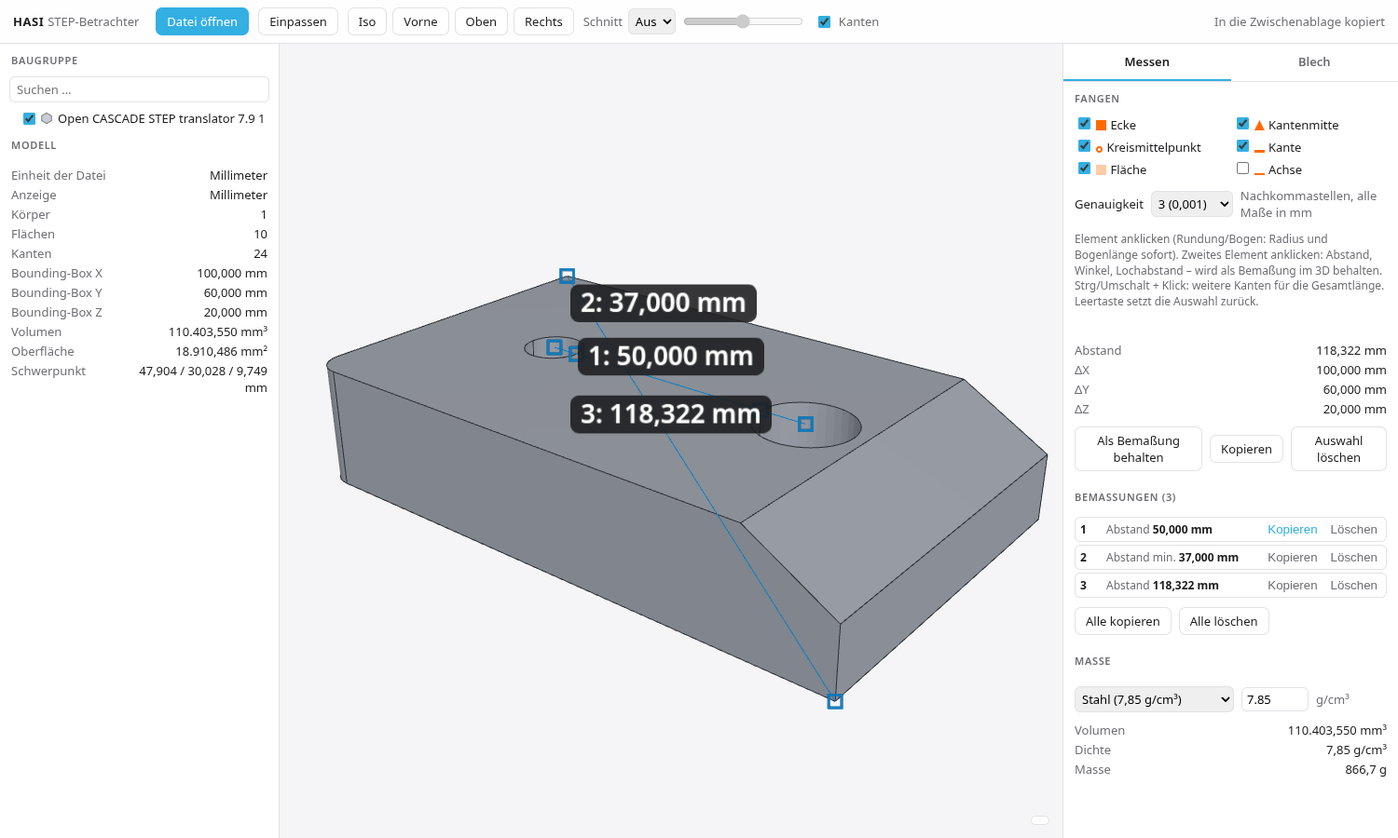
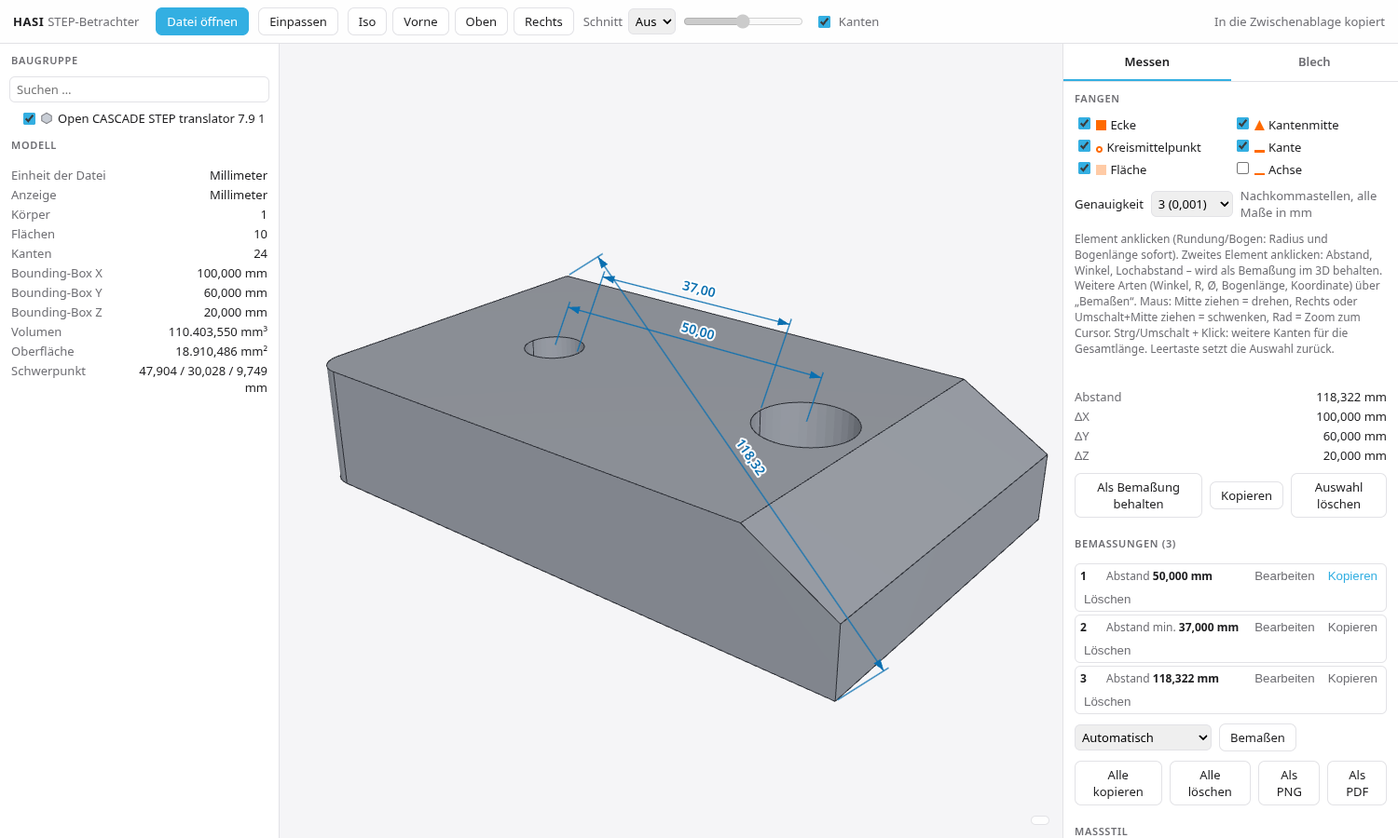
Maus wie eDrawings und Bemaßung wie AutoCAD: alle Maßarten, Toleranzen, Maßstil, Ziehen, PNG/PDF-Export

diff --git a/src/main.js b/src/main.js
@@ -1,5 +1,6 @@
 import * as THREE from 'three';
 import { OrbitControls } from 'three/examples/jsm/controls/OrbitControls.js';
+import * as BM from './bemassung.js';
 const $=id=>document.getElementById(id), view=$('view');
 let renderer;
 try{renderer=new THREE.WebGLRenderer({antialias:true,preserveDrawingBuffer:true})}catch(e){$('status').textContent='Fehler: 3D-Grafik (WebGL) wird auf diesem Rechner nicht unterstützt.';throw e}
@@ -7,11 +8,15 @@ renderer.setPixelRatio(devicePixelRatio);renderer.setClearColor(0xf5f5f7);view.a
 const scene=new THREE.Scene(),camera=new THREE.PerspectiveCamera(35,1,0.1,1e6);
 scene.add(new THREE.HemisphereLight(0xffffff,0xb0b4bc,1.5));const dl=new THREE.DirectionalLight(0xffffff,1.3);camera.add(dl);dl.position.set(1,2,3);scene.add(camera);
 const controls=new OrbitControls(camera,renderer.domElement);controls.enableDamping=true;controls.screenSpacePanning=true;
+// Maus wie eDrawings/SolidWorks: Mitte ziehen = drehen, Umschalt+Mitte oder Rechts ziehen = schwenken, Rad = Zoom auf den Cursor, Links = Auswahl/Messen
+controls.mouseButtons={LEFT:null,MIDDLE:THREE.MOUSE.ROTATE,RIGHT:THREE.MOUSE.PAN};controls.zoomToCursor=true;
+renderer.domElement.addEventListener('mousedown',e=>{if(e.button===1)e.preventDefault()});
+const overlay=document.createElement('canvas');overlay.id='dimoverlay';overlay.style.cssText='position:absolute;left:0;top:0;pointer-events:none';view.appendChild(overlay);
 const plane=new THREE.Plane(new THREE.Vector3(1,0,0),0);
 let model=null,box=new THREE.Box3(),needs=true,data=null,bodies=[],edgeObjs=[],baseMat=null,marks=new THREE.Group(),hoverObj=new THREE.Group();
-function resize(){const w=view.clientWidth,h=view.clientHeight;renderer.setSize(w,h);camera.aspect=w/h;camera.updateProjectionMatrix();needs=true}
+function resize(){const w=view.clientWidth,h=view.clientHeight;renderer.setSize(w,h);overlay.width=w*devicePixelRatio;overlay.height=h*devicePixelRatio;overlay.style.width=w+'px';overlay.style.height=h+'px';camera.aspect=w/h;camera.updateProjectionMatrix();needs=true}
 addEventListener('resize',resize);resize();controls.addEventListener('change',()=>needs=true);
-(function loop(){requestAnimationFrame(loop);controls.update();if(needs){renderer.render(scene,camera);needs=false}})();
+(function loop(){requestAnimationFrame(loop);controls.update();if(needs){renderer.render(scene,camera);drawDims();needs=false}})();
 
 // ---------- Worker ----------
 const worker=new Worker(new URL('./worker.js',import.meta.url),{type:'module'});const base=new URL('./',location.href).href;
@@ -64,7 +69,7 @@ async function load(buf,name){
     model.add(mesh);bodies.push(mesh)});
   model.add(marks);model.add(hoverObj);scene.add(model);model.updateMatrixWorld(true);box.setFromObject(model);
   vIdx=new Map();
-  buildTree();clearSel();hov=null;hoverObj.clear();$('snaptip').hidden=true;dims=[];dimNo=0;lastRes=null;renderDims();sheetSolid=null;fit();setCut();showModel();sheetCache=null;$('sheeterr').innerHTML='';$('sheetinfo').innerHTML='';$('bends').innerHTML='';$('flatprev').innerHTML='';$('dxf').disabled=true;$('sheetwarn').textContent='';
+  buildTree();clearSel();hov=null;hoverObj.clear();$('snaptip').hidden=true;dims=[];dimSel=null;$('dimedit').hidden=true;dimNo=0;lastRes=null;renderDims();sheetSolid=null;fit();setCut();showModel();sheetCache=null;$('sheeterr').innerHTML='';$('sheetinfo').innerHTML='';$('bends').innerHTML='';$('flatprev').innerHTML='';$('dxf').disabled=true;$('sheetwarn').textContent='';
   if(!$('tab-blech').hidden)calcSheet();
   const ms=Math.round(performance.now()-t0);const tris=data.inst.reduce((s,I)=>s+data.uniq[I.u].i.length/3,0);
   const info={name,bytes:size,bodies:data.inst.length,unique:data.uniq.length,faces:data.model.faces,edges:data.model.edges,triangles:tris,totalMs:ms,unit:U.sym,times:data.times,stats:data.stats};window.__lastLoad=info;
@@ -144,7 +149,7 @@ function viewMenu(x,y){const s=pickAt(x,y);const n=s&&s.body?nodeOfBody(s.body.u
       if(a==='dims'){dims=[];renderDims()}
       if(a==='shot')screenshot()})}
 let lastAxis='';$('axis').addEventListener('change',()=>{if($('axis').value)lastAxis=$('axis').value});
-async function screenshot(){renderer.render(scene,camera);const url=renderer.domElement.toDataURL('image/png');
+async function screenshot(){const url=ansichtBild().toDataURL('image/png');
   const bin=atob(url.split(',')[1]);const bytes=new Uint8Array(bin.length);for(let i=0;i<bin.length;i++)bytes[i]=bin.charCodeAt(i);
   const name=(window.__lastLoad?.name||'ansicht').replace(/\.(step|stp)$/i,'')+'-ansicht.png';await saveBytes(name,bytes,'PNG-Bild','png','image/png')}
 let rdown=null;
@@ -239,29 +244,86 @@ async function select(s,add=false){if(sels.length>=2&&!add)clearSel();const clea
 const dimGroup=new THREE.Group();dimGroup.renderOrder=20;let dims=[],dimNo=0;
 const rowText=r=>`${r[0]}: ${r[2]&&r[2]!=='t'?fmt(r[1],r[2]):r[1]}`;
 const mainRow=r=>r.rows.find(x=>x[3])||r.rows.find(x=>x[2]==='L'||x[2]==='A'||x[2]==='W')||r.rows[0];
-function textSprite(txt){const c=document.createElement('canvas'),x=c.getContext('2d');const f='600 30px system-ui,sans-serif';x.font=f;const w=Math.ceil(x.measureText(txt).width)+24;c.width=w;c.height=44;
-  x.font=f;x.fillStyle='rgba(29,29,31,.88)';x.beginPath();x.roundRect?x.roundRect(0,0,w,44,10):x.rect(0,0,w,44);x.fill();x.fillStyle='#fff';x.textBaseline='middle';x.fillText(txt,12,23);
-  const t=new THREE.CanvasTexture(c);t.colorSpace=THREE.SRGBColorSpace;const sp=new THREE.Sprite(new THREE.SpriteMaterial({map:t,depthTest:false,sizeAttenuation:false}));
-  const h=0.03;sp.center.set(0.5,-0.2);sp.scale.set(h*w/44,h,1);sp.renderOrder=21;return sp}
-function dimObject(d,k=0){const g=new THREE.Group();const col=0x0a7cc2;const r=mainRow(d.r);
-  let at=null;for(const [a,b] of d.r.gfx){const l=new THREE.Line(new THREE.BufferGeometry().setFromPoints([V3(a),V3(b)]),new THREE.LineBasicMaterial({color:col,depthTest:false}));l.renderOrder=20;g.add(l);
-    for(const p of [a,b])g.add(snapSym('vertex',p,col));at=V3(a).add(V3(b)).multiplyScalar(.5)}
-  if(!at){const s=d.sels[0];at=V3(s.p||[0,0,0])}
-  const sp=textSprite(`${d.no}: ${fmt(r[1],r[2])}`);sp.position.copy(at);sp.center.set(0.5,-0.2-1.35*k);g.add(sp);g.userData.dim=d.no;return g}
-// Labels mit gleichem oder nahem Ankerpunkt (< 4 % der Modellgröße) übereinander versetzen statt überlappen
-const dimAnchor=d=>{const g=d.r.gfx[0];return g?g[0].map((x,i)=>(x+g[1][i])/2):(d.sels[0].p||[0,0,0])};
-function renderDims(){dimGroup.clear();const tol=box.getSize(new THREE.Vector3()).length()*0.04,placed=[];
-  dims.forEach(d=>{const a=dimAnchor(d);const k=placed.filter(q=>Math.hypot(q[0]-a[0],q[1]-a[1],q[2]-a[2])<tol).length;placed.push(a);dimGroup.add(dimObject(d,k))});if(model&&dimGroup.parent!==model)model.add(dimGroup);
-  $('dimcount').textContent=dims.length?`(${dims.length})`:'';
-  $('dimlist').innerHTML=dims.map(d=>{const r=mainRow(d.r);return `<div class="dim" data-no="${d.no}"><b>${d.no}</b><span title="${d.title}"><span class="t">${r[0]}</span> <b>${fmt(r[1],r[2])}</b></span><button data-a="copy" title="Kopieren">Kopieren</button><button data-a="del" title="Löschen">Löschen</button></div>`}).join('')||'<p class="hint">Noch keine Bemaßungen.</p>';
-  window.__dims=dims.map(d=>({no:d.no,title:d.title,text:dimText(d)}));needs=true}
+// Maßstil (Textgröße, Pfeilart, Nachkommastellen) – bleibt gespeichert
+let STIL={...BM.STIL_STANDARD,...JSON.parse(localStorage.getItem('massstil')||'{}')};
+const projL=p=>{const w=model.localToWorld(V3(p)).project(camera);return [(w.x+1)/2*view.clientWidth,(1-w.y)/2*view.clientHeight,w.z]};
+let dimHits=[],dimSel=null,dimDrag=null;
+function drawDims(){const c=overlay.getContext('2d');c.setTransform(devicePixelRatio,0,0,devicePixelRatio,0,0);c.clearRect(0,0,overlay.width,overlay.height);dimHits=[];
+  if(!model||!dims.length)return;dims.forEach(d=>{if(!d.typ)return;const h=BM.zeichne(c,d,projL,STIL,d.no===dimSel?'#e05a00':'#0a6fb0');if(h)dimHits.push({...h,no:d.no})})}
+// Bemaßung aus der Auswahl bauen (Werte aus der B-Rep, Modellkoordinaten in mm)
+const IM=s=>data.inst[s.inst??0].m;const TP=(m,q)=>[m[0]*q[0]+m[1]*q[1]+m[2]*q[2]+m[3],m[4]*q[0]+m[5]*q[1]+m[6]*q[2]+m[7],m[8]*q[0]+m[9]*q[1]+m[10]*q[2]+m[11]];
+const TD=(m,q)=>BM.V.norm([m[0]*q[0]+m[1]*q[1]+m[2]*q[2],m[4]*q[0]+m[5]*q[1]+m[6]*q[2],m[8]*q[0]+m[9]*q[1]+m[10]*q[2]]);
+const camDir=v=>{const o=model.worldToLocal(new THREE.Vector3(0,0,0));const w=model.worldToLocal(v.clone().applyQuaternion(camera.quaternion));return BM.V.norm(w.sub(o).toArray())};
+const rowVal=(r,...names)=>{for(const n of names){const x=r.rows.find(q=>q[0]===n);if(x)return x[1]}return null};
+const circleOf=s=>{const U=UQ(s),m=IM(s);if(s.k==='edge'||s.k==='center'){const e=U.edges[s.id];if(e.r==null)return null;const voll=V3(e.pts[0]).distanceTo(V3(e.pts.at(-1)))<1e-6*Math.max(1,e.r);
+    return {c:TP(m,e.c),n:TD(m,e.n),r:e.r,voll,p0:TP(m,e.pts[0]),p1:TP(m,e.pts.at(-1))}}
+  if(s.k==='face'){const f=U.faces[s.id];if(!f.ax)return null;return {c:TP(m,f.ax.c),n:TD(m,f.ax.d),r:f.ax.r,voll:true}}return null};
+const lineOf=s=>{if(s.k!=='edge')return null;const e=UQ(s).edges[s.id];if(e.type!=='Gerade')return null;const m=IM(s);return [TP(m,e.pts[0]),TP(m,e.pts.at(-1))]};
+const pointOf=s=>{const U=UQ(s),m=IM(s);if(s.k==='vertex')return TP(m,U.verts[s.id]);if(s.k==='mid')return TP(m,U.edges[s.id].mid);if(s.k==='center'){const e=U.edges[s.id];return e.c?TP(m,e.c):null}if(s.k==='point')return s.p;return null};
+function baueDim(res,typ){const sl=res.sels,r=res.r,size=box.getSize(new THREE.Vector3()).length();const d={typ:null,einheit:'L',tol:{art:'keine',o:0,u:0},praefix:'',suffix:'',text:''};
+  if(typ==='auto'){if(sl.length===1){const ci=circleOf(sl[0]);typ=ci?(ci.voll?'durchmesser':'radius'):(pointOf(sl[0])?'koordinate':null)}else typ=r.gfx.length?'ausgerichtet':null}
+  if(!typ)return null;d.typ=typ;
+  if(['ausgerichtet','horizontal','vertikal'].includes(typ)){if(!r.gfx.length)return null;const [a,b]=r.gfx[0];d.p1=a;d.p2=b;
+    d.dir=typ==='horizontal'?camDir(new THREE.Vector3(1,0,0)):typ==='vertikal'?camDir(new THREE.Vector3(0,1,0)):BM.V.norm(BM.V.sub(b,a));
+    d.wert=Math.abs(BM.V.dot(BM.V.sub(b,a),BM.V.norm(d.dir)));
+    const up=camDir(new THREE.Vector3(0,1,0));let side=BM.V.norm(BM.V.cross(d.dir,camDir(new THREE.Vector3(0,0,1))));if(BM.V.dot(side,up)<0)side=BM.V.mul(side,-1);d.off=BM.V.mul(side,size*0.06);return d}
+  if(typ==='winkel'){const L1=lineOf(sl[0]),L2=sl[1]&&lineOf(sl[1]);if(!L1||!L2)return null;
+    const d1=BM.V.norm(BM.V.sub(L1[1],L1[0])),d2=BM.V.norm(BM.V.sub(L2[1],L2[0])),w=BM.V.sub(L1[0],L2[0]);const a=BM.V.dot(d1,d2),dd=BM.V.dot(d1,w),e=BM.V.dot(d2,w),den=1-a*a;if(den<1e-9)return null;
+    const t=(a*e-dd)/den,u=(e-a*dd)/den;const v=BM.V.mul(BM.V.add(BM.V.add(L1[0],BM.V.mul(d1,t)),BM.V.add(L2[0],BM.V.mul(d2,u))),0.5);
+    const far=L=>BM.V.len(BM.V.sub(L[0],v))>BM.V.len(BM.V.sub(L[1],v))?L[0]:L[1];d.v=v;d.u1=BM.V.norm(BM.V.sub(far(L1),v));d.u2=BM.V.norm(BM.V.sub(far(L2),v));
+    d.einheit='W';d.wert=Math.acos(Math.max(-1,Math.min(1,BM.V.dot(d.u1,d.u2))))*180/Math.PI;d.off=BM.V.mul(d.u1,Math.min(BM.V.len(BM.V.sub(far(L1),v)),BM.V.len(BM.V.sub(far(L2),v)))*0.6);return d}
+  const ci=circleOf(sl[0]);
+  if(typ==='radius'||typ==='durchmesser'){if(!ci)return null;Object.assign(d,{c:ci.c,n:ci.n,rad:ci.r,ang:0.7});d.wert=typ==='radius'?ci.r:2*ci.r;return d}
+  if(typ==='bogen'){if(!ci||!ci.p0)return null;const [a0,a1]=BM.bogenWinkel(ci.c,ci.n,ci.p0,ci.p1,ci.voll);Object.assign(d,{c:ci.c,n:ci.n,rad:ci.r,a0,a1,offR:ci.r*0.25});d.wert=rowVal(r,'Bogenlänge')??ci.r*(a1-a0);return d}
+  if(typ==='koordinate'){const p=pointOf(sl[0]);if(!p)return null;d.p=p;d.off=[size*0.05,size*0.05,0];d.wert=0;return d}
+  return null}
 const dimText=d=>`Bemaßung ${d.no} (${d.title})\n`+d.r.rows.map(rowText).join('\n');
+function renderDims(){if(dimSel&&!dims.some(d=>d.no===dimSel)){dimSel=null;$('dimedit').hidden=true}
+  $('dimcount').textContent=dims.length?`(${dims.length})`:'';
+  $('dimlist').innerHTML=dims.map(d=>{const r=mainRow(d.r);return `<div class="dim" data-no="${d.no}"><b>${d.no}</b><span title="${d.title}"><span class="t">${r[0]}</span> <b>${fmt(r[1],r[2])}</b></span><button data-a="edit" title="Bearbeiten">Bearbeiten</button><button data-a="copy" title="Kopieren">Kopieren</button><button data-a="del" title="Löschen">Löschen</button></div>`}).join('')||'<p class="hint">Noch keine Bemaßungen.</p>';
+  window.__dims=dims.map(d=>({no:d.no,title:d.title,text:dimText(d)}));needs=true}
 async function copyText(t){window.__lastCopy=t;try{await navigator.clipboard.writeText(t)}catch{const a=document.createElement('textarea');a.value=t;document.body.appendChild(a);a.select();try{document.execCommand('copy')}catch{}a.remove()}$('status').textContent='In die Zwischenablage kopiert'}
-function keepDim(){if(!lastRes)return;dims.push({no:++dimNo,...lastRes});renderDims()}
+function keepDim(typ){if(!lastRes)return false;typ=typ||$('dimtyp').value;const g=baueDim(lastRes,typ);if(typ!=='auto'&&!g){$('status').textContent='Diese Bemaßungsart passt nicht zur Auswahl.';return false}
+  // Gleicher Bezugspunkt wie eine vorhandene Bemaßung: weiter nach außen versetzen, damit sich nichts überlappt
+  if(g&&g.off){const tol=box.getSize(new THREE.Vector3()).length()*0.04,ref=dimRef(g);const k=dims.filter(d=>d.typ&&BM.V.len(BM.V.sub(dimRef(d),ref))<tol).length;if(k)g.off=BM.V.mul(g.off,1+k*0.9)}
+  dims.push({no:++dimNo,...lastRes,...(g||{})});renderDims();return true}
 $('keepDim').onclick=()=>keepDim();
 $('copySel').onclick=()=>{if(lastRes)copyText(lastRes.title+'\n'+lastRes.r.rows.map(rowText).join('\n'))};
 $('dimlist').onclick=e=>{const b=e.target.closest('button');if(!b)return;const no=+b.closest('.dim').dataset.no;const d=dims.find(x=>x.no===no);
-  if(b.dataset.a==='del'){dims=dims.filter(x=>x!==d);renderDims()}else copyText(dimText(d))};
+  if(b.dataset.a==='del'){dims=dims.filter(x=>x!==d);renderDims()}else if(b.dataset.a==='edit')editDim(d);else copyText(dimText(d))};
+// ---- Bemaßung bearbeiten (Art, Präfix/Suffix, Text, Toleranz) ----
+function editDim(d){if(!d)return;dimSel=d.no;$('dimedit').hidden=false;$('deNo').textContent=d.no;
+  const lin=['ausgerichtet','horizontal','vertikal'];const ts=lin.includes(d.typ)?lin:[d.typ||'auto'];$('deTyp').innerHTML=ts.map(t=>`<option value="${t}">${BM.TYPEN.find(x=>x[0]===t)?.[1]||'Nur Text'}</option>`).join('');$('deTyp').value=d.typ||'auto';$('deTyp').disabled=!lin.includes(d.typ);
+  $('dePre').value=d.praefix||'';$('deSuf').value=d.suffix||'';$('deText').value=d.text||'';$('deTol').value=d.tol?.art||'keine';$('deO').value=d.tol?.o??0;$('deU').value=d.tol?.u??0;needs=true}
+const curDim=()=>dims.find(x=>x.no===dimSel);
+['dePre','deSuf','deText','deTol','deO','deU','deTyp'].forEach(id=>$(id).addEventListener('input',()=>{const d=curDim();if(!d)return;
+  d.praefix=$('dePre').value;d.suffix=$('deSuf').value;d.text=$('deText').value;d.tol={art:$('deTol').value,o:parseFloat(String($('deO').value).replace(',','.'))||0,u:parseFloat(String($('deU').value).replace(',','.'))||0};
+  if(id==='deTyp'&&d.typ!==$('deTyp').value){const keep={tol:d.tol,praefix:d.praefix,suffix:d.suffix,text:d.text};const g=baueDim(d,$('deTyp').value);if(g)Object.assign(d,g,keep)}needs=true}));
+$('deClose').onclick=()=>{dimSel=null;$('dimedit').hidden=true;needs=true};
+// ---- Maßstil ----
+$('stPfeil').innerHTML=BM.PFEILARTEN.map(([k,t])=>`<option value="${k}">${t}</option>`).join('');$('stGroesse').value=STIL.groesse;$('stPfeil').value=STIL.pfeil;$('stStellen').value=STIL.stellen;
+['stGroesse','stPfeil','stStellen'].forEach(id=>$(id).addEventListener('input',()=>{STIL={groesse:Math.max(8,Math.min(40,+$('stGroesse').value||14)),pfeil:$('stPfeil').value,stellen:Math.max(0,Math.min(4,parseInt($('stStellen').value)||0))};localStorage.setItem('massstil',JSON.stringify(STIL));needs=true}));
+$('dimtyp').innerHTML=BM.TYPEN.map(([k,t])=>`<option value="${k}">${t}</option>`).join('');
+$('dimSet').onclick=()=>keepDim($('dimtyp').value);
+// ---- Bemaßung ziehen: Maßtext mit links greifen und ziehen ----
+const modelPointAt=(cx,cy,ref)=>{const r=renderer.domElement.getBoundingClientRect();const wr=model.localToWorld(V3(ref)).project(camera);
+  const v=new THREE.Vector3(((cx-r.left)/r.width)*2-1,-((cy-r.top)/r.height)*2+1,wr.z).unproject(camera);return model.worldToLocal(v).toArray()};
+function dimRef(d){return d.p1?BM.V.mul(BM.V.add(d.p1,d.p2),0.5):(d.v||d.c||d.p)}
+renderer.domElement.addEventListener('pointerdown',e=>{if(e.button!==0||!dims.length)return;const r=renderer.domElement.getBoundingClientRect();const x=e.clientX-r.left,y=e.clientY-r.top;
+  const h=dimHits.find(h=>Math.abs(h.x-x)<(h.w?h.w/2+6:h.r)&&Math.abs(h.y-y)<(h.h?h.h:h.r));if(!h)return;const d=dims.find(q=>q.no===h.no);dimDrag={d,moved:false};dimSel=d.no;try{renderer.domElement.setPointerCapture(e.pointerId)}catch{}e.stopImmediatePropagation();needs=true},true);
+renderer.domElement.addEventListener('pointermove',e=>{if(!dimDrag)return;e.stopImmediatePropagation();dimDrag.moved=true;BM.ziehe(dimDrag.d,modelPointAt(e.clientX,e.clientY,dimRef(dimDrag.d)));needs=true},true);
+renderer.domElement.addEventListener('pointerup',e=>{if(!dimDrag)return;e.stopImmediatePropagation();const d=dimDrag.d,mv=dimDrag.moved;dimDrag=null;down=null;if(!mv)editDim(d);needs=true},true);
+// ---- Ansicht mit Bemaßungen exportieren (PNG/PDF) ----
+function ansichtBild(){renderer.render(scene,camera);drawDims();const c=document.createElement('canvas');c.width=renderer.domElement.width;c.height=renderer.domElement.height;const x=c.getContext('2d');
+  x.drawImage(renderer.domElement,0,0);x.drawImage(overlay,0,0,c.width,c.height);return c}
+const toBytes=url=>{const b=atob(url.split(',')[1]);const u=new Uint8Array(b.length);for(let i=0;i<b.length;i++)u[i]=b.charCodeAt(i);return u};
+async function exportPng(){await saveBytes(baseName()+'_Bemaßung.png',toBytes(ansichtBild().toDataURL('image/png')),'PNG-Bild','png','image/png')}
+async function exportPdf(){const c=ansichtBild();const {jsPDF}=await import('jspdf');const pdf=new jsPDF({orientation:'landscape',unit:'mm',format:'a4'});
+  pdf.setFontSize(12);pdf.text(`${window.__lastLoad?.name||'Teil'} – Bemaßung (Maße in mm)`,12,12);let w=273,h=w*c.height/c.width;if(h>180){h=180;w=h*c.width/c.height}
+  pdf.addImage(c.toDataURL('image/png'),'PNG',12+(273-w)/2,18,w,h);pdf.setFontSize(8);pdf.text(new Date().toLocaleDateString('de-DE'),12,203);
+  await saveBytes(baseName()+'_Bemaßung.pdf',new Uint8Array(pdf.output('arraybuffer')),'PDF-Dokument','pdf','application/pdf')}
+$('dimPng').onclick=exportPng;$('dimPdf').onclick=exportPdf;
+
 $('dimClear').onclick=()=>{dims=[];renderDims()};
 $('dimCopyAll').onclick=()=>copyText(dims.map(dimText).join('\n\n'));
 $('prec').value=String(PREC);$('prec').onchange=()=>{PREC=+$('prec').value;localStorage.setItem('genauigkeit',PREC);renderDims();if(lastRes)kv($('mresult'),lastRes.r.rows);if(data){showModel?.();showMass?.()}if(sheetCache)calcSheet()};
@@ -313,6 +375,6 @@ $('expXlsx').onclick=async()=>{if(!sheetCache?.flat||sheetCache.flat.incomplete)
 
 // ---------- Test-Schnittstelle ----------
 window.__viewMenu=(x,y)=>viewMenu(x,y);window.__loadUrl=async u=>load(await (await fetch(u)).arrayBuffer(),u.split('/').pop());
-window.__app={hoverCount:()=>hoverObj.children.length,dimLabels:()=>dimGroup.children.map(g=>{const sp=g.children.find(o=>o.isSprite);return [sp.position.toArray(),sp.center.y]}),dims:()=>dims,keepDim,renderDims,copyText,vis:()=>bodies.map(b=>b.visible),selName:()=>selNode?.name,trans:()=>bodies.map(b=>b.material.opacity),act,selectNode,nodes:()=>nodes,ctxMenu,select,clearSel,calcSheet,pickAt,data:()=>data,tab:n=>document.querySelector(`.tab[data-tab="${n}"]`).click(),
+window.__app={hoverCount:()=>hoverObj.children.length,camPos:()=>camera.position.toArray(),fitIso:()=>fit(views.iso),dimLabels:()=>dimHits.map(h=>[[h.x,h.y,0],h.no]),exportPng,exportPdf,editDim:no=>editDim(dims.find(d=>d.no===no)),stil:()=>STIL,dims:()=>dims,keepDim,renderDims,copyText,vis:()=>bodies.map(b=>b.visible),selName:()=>selNode?.name,trans:()=>bodies.map(b=>b.material.opacity),act,selectNode,nodes:()=>nodes,ctxMenu,select,clearSel,calcSheet,pickAt,data:()=>data,tab:n=>document.querySelector(`.tab[data-tab="${n}"]`).click(),
   screenOf:p=>{const r=renderer.domElement.getBoundingClientRect();const w=model.localToWorld(V3(p)).project(camera);return [(w.x+1)/2*r.width+r.left,(1-w.y)/2*r.height+r.top]}};
 window.__toggleMeasure=()=>{};

diff --git a/src/bemassung.js b/src/bemassung.js
@@ -1,0 +1,80 @@
+// Bemaßung wie in AutoCAD, als 2D-Overlay über der 3D-Ansicht (bleibt beim Drehen lesbar, Text immer zur Kamera ausgerichtet).
+// Alle Punkte in Modellkoordinaten (mm, aus der B-Rep). P(p) projiziert einen Modellpunkt auf den Bildschirm [x,y] (CSS-Pixel).
+const V={add:(a,b)=>[a[0]+b[0],a[1]+b[1],a[2]+b[2]],sub:(a,b)=>[a[0]-b[0],a[1]-b[1],a[2]-b[2]],mul:(a,s)=>[a[0]*s,a[1]*s,a[2]*s],
+  dot:(a,b)=>a[0]*b[0]+a[1]*b[1]+a[2]*b[2],cross:(a,b)=>[a[1]*b[2]-a[2]*b[1],a[2]*b[0]-a[0]*b[2],a[0]*b[1]-a[1]*b[0]],len:a=>Math.hypot(a[0],a[1],a[2]),
+  norm:a=>{const l=Math.hypot(a[0],a[1],a[2])||1;return [a[0]/l,a[1]/l,a[2]/l]}};
+export {V};
+export const STIL_STANDARD={groesse:14,pfeil:'pfeil',stellen:2};
+export const PFEILARTEN=[['pfeil','Pfeil (gefüllt)'],['offen','Pfeil (offen)'],['schraeg','Schrägstrich'],['punkt','Punkt']];
+export const TYPEN=[['auto','Automatisch'],['ausgerichtet','Linear ausgerichtet'],['horizontal','Linear horizontal'],['vertikal','Linear vertikal'],['winkel','Winkel'],['radius','Radius R'],['durchmesser','Durchmesser Ø'],['bogen','Bogenlänge'],['koordinate','Koordinate']];
+export const TOLERANZEN=[['keine','Keine'],['symm','± symmetrisch'],['abmass','Abmaße (+/−)'],['grenz','Grenzmaß']];
+const zahl=(v,n)=>v.toLocaleString('de-DE',{minimumFractionDigits:n,maximumFractionDigits:n});
+const basis=n=>{const a=Math.abs(n[0])<0.9?[1,0,0]:[0,1,0];const e1=V.norm(V.cross(n,a));return [e1,V.cross(n,e1)]};
+
+/** Maßtext: [Haupttext, Zusatz oben, Zusatz unten] (Zusätze klein gestapelt, z. B. Abmaße). */
+export function massText(d,stil){const n=stil.stellen,w=d.wert;const t=d.tol||{art:'keine'};const o=+t.o||0,u=+t.u||0;
+  const wert=d.einheit==='W'?zahl(w,n)+'°':zahl(w,n);
+  const vor={radius:'R ',durchmesser:'Ø ',bogen:'⌒ '}[d.typ]||'';
+  let haupt=d.text&&d.text.trim()?d.text:vor+wert,oben='',unten='';
+  if(t.art==='symm')haupt+=' ±'+zahl(o,n);
+  else if(t.art==='abmass'){oben=(o>=0?'+':'−')+zahl(Math.abs(o),n);unten=(u>0?'+':'−')+zahl(Math.abs(u),n)}
+  else if(t.art==='grenz'){haupt=d.text&&d.text.trim()?d.text:vor;oben=zahl(w+o,n);unten=zahl(w-Math.abs(u),n)}
+  return [(d.praefix||'')+haupt,oben,unten,d.suffix||'']}
+
+function pfeil(ctx,p,dir,art,s){const [x,y]=p,[dx,dy]=dir;const nx=-dy,ny=dx;const L=s*0.9,W=s*0.3;
+  ctx.beginPath();
+  if(art==='schraeg'){ctx.moveTo(x-(dx+nx)*L*0.45,y-(dy+ny)*L*0.45);ctx.lineTo(x+(dx+nx)*L*0.45,y+(dy+ny)*L*0.45);ctx.lineWidth=2;ctx.stroke();ctx.lineWidth=1.2;return}
+  if(art==='punkt'){ctx.arc(x,y,s*0.22,0,7);ctx.fill();return}
+  ctx.moveTo(x,y);ctx.lineTo(x-dx*L+nx*W,y-dy*L+ny*W);if(art==='offen'){ctx.moveTo(x,y)}ctx.lineTo(x-dx*L-nx*W,y-dy*L-ny*W);
+  if(art==='offen')ctx.stroke();else{ctx.closePath();ctx.fill()}}
+const unit2=(a,b)=>{const dx=b[0]-a[0],dy=b[1]-a[1],l=Math.hypot(dx,dy)||1;return [dx/l,dy/l]};
+const linie=(ctx,pts)=>{ctx.beginPath();pts.forEach((p,i)=>i?ctx.lineTo(p[0],p[1]):ctx.moveTo(p[0],p[1]));ctx.stroke()};
+// Text an Position p, Winkel ang (lesbar: nie kopfüber), oberhalb der Linie (oben=true) oder zentriert. Liefert Bildschirm-Rechteck.
+function text(ctx,p,ang,teile,stil,ueber=true){const [haupt,o,u,suf]=teile;const g=stil.groesse;
+  while(ang>Math.PI/2)ang-=Math.PI;while(ang<=-Math.PI/2)ang+=Math.PI;
+  ctx.save();ctx.translate(p[0],p[1]);ctx.rotate(ang);ctx.font=`600 ${g}px system-ui,sans-serif`;
+  const wH=ctx.measureText(haupt).width;ctx.font=`600 ${g*0.7}px system-ui,sans-serif`;const wS=Math.max(ctx.measureText(o).width,ctx.measureText(u).width);
+  ctx.font=`600 ${g}px system-ui,sans-serif`;const wSuf=suf?ctx.measureText(' '+suf).width:0;const W=wH+(wS?wS+3:0)+wSuf;
+  const y0=ueber?-g*0.35:g*0.35;ctx.textBaseline=ueber?'bottom':'middle';ctx.lineJoin='round';
+  const draw=(t,x,y)=>{ctx.strokeStyle='rgba(255,255,255,.95)';ctx.lineWidth=4;ctx.strokeText(t,x,y);ctx.fillText(t,x,y)};
+  draw(haupt,-W/2,y0);
+  if(wS){ctx.font=`600 ${g*0.7}px system-ui,sans-serif`;ctx.textBaseline='alphabetic';const xs=-W/2+wH+3,yb=ueber?y0-g*0.05:y0+g*0.35;draw(o,xs,yb-g*0.55);draw(u,xs,yb+(ueber?0:0.05*g));ctx.font=`600 ${g}px system-ui,sans-serif`;ctx.textBaseline=ueber?'bottom':'middle'}
+  if(suf)draw(' '+suf,-W/2+wH+(wS?wS+3:0),y0);
+  ctx.restore();const r=Math.max(W,g)/2+4;return {x:p[0],y:p[1],r,w:W,h:g*1.3}}
+
+/** Zeichnet eine Bemaßung. Liefert die Trefferfläche für das Ziehen ({x,y,r}). */
+export function zeichne(ctx,d,P,stil,farbe='#0a6fb0'){ctx.strokeStyle=farbe;ctx.fillStyle=farbe;ctx.lineWidth=1.2;const s=stil.groesse,art=stil.pfeil,T=massText(d,stil);
+  const ext=(a,b)=>{const u=unit2(a,b),L=Math.hypot(b[0]-a[0],b[1]-a[1]);if(L<4)return;linie(ctx,[[a[0]+u[0]*3,a[1]+u[1]*3],[b[0]+u[0]*6,b[1]+u[1]*6]])};
+  if(['ausgerichtet','horizontal','vertikal'].includes(d.typ)){const g=geomLinear(d);const A=P(d.p1),B=P(d.p2),L1=P(g.l1),L2=P(g.l2);
+    ext(A,L1);ext(B,L2);linie(ctx,[L1,L2]);const u=unit2(L1,L2);pfeil(ctx,L2,u,art,s);pfeil(ctx,L1,[-u[0],-u[1]],art,s);
+    return text(ctx,[(L1[0]+L2[0])/2,(L1[1]+L2[1])/2],Math.atan2(u[1],u[0]),T,stil)}
+  if(d.typ==='winkel'){const rr=Math.max(V.len(d.off||[0,0,0]),1e-6);const pts=bogenPunkte(d.v,d.u1,d.u2,rr).map(P);
+    ext(P(d.v),pts[0]);ext(P(d.v),pts.at(-1));linie(ctx,pts);pfeil(ctx,pts.at(-1),unit2(pts.at(-2),pts.at(-1)),art,s);pfeil(ctx,pts[0],unit2(pts[1],pts[0]),art,s);
+    const m=pts[pts.length>>1],t=unit2(pts[(pts.length>>1)-1],pts[(pts.length>>1)+1]);return text(ctx,m,Math.atan2(t[1],t[0]),T,stil)}
+  if(d.typ==='radius'||d.typ==='durchmesser'){const [e1,e2]=basis(d.n);const a=d.ang??0.6;const dir=V.add(V.mul(e1,Math.cos(a)),V.mul(e2,Math.sin(a)));
+    const q=V.add(d.c,V.mul(dir,d.rad)),C=P(d.c),Q=P(q);const qa=d.typ==='durchmesser'?P(V.sub(d.c,V.mul(dir,d.rad))):C;
+    const u=unit2(qa,Q);const lead=[Q[0]+u[0]*s*2.2,Q[1]+u[1]*s*2.2];const right=u[0]>=0;const end=[lead[0]+(right?1:-1)*s*0.8,lead[1]];
+    linie(ctx,[qa,Q,lead,end]);pfeil(ctx,Q,u,art,s);if(d.typ==='durchmesser')pfeil(ctx,qa,[-u[0],-u[1]],art,s);else{ctx.beginPath();ctx.arc(C[0],C[1],2.5,0,7);ctx.fill()}
+    ctx.save();ctx.textAlign='left';const tw=(()=>{ctx.font=`600 ${s}px system-ui,sans-serif`;return ctx.measureText(T[0]).width+(T[1]?s:0)})();ctx.restore();
+    return text(ctx,[end[0]+(right?1:-1)*(tw/2+4),end[1]],0,T,stil,false)}
+  if(d.typ==='bogen'){const rr=d.rad+Math.max(d.offR??d.rad*0.3,1e-6);const [e1,e2]=basis(d.n);const pt=(a,r)=>V.add(d.c,V.add(V.mul(e1,Math.cos(a)*r),V.mul(e2,Math.sin(a)*r)));
+    const N=32,pts=[];for(let i=0;i<=N;i++)pts.push(P(pt(d.a0+(d.a1-d.a0)*i/N,rr)));ext(P(pt(d.a0,d.rad)),pts[0]);ext(P(pt(d.a1,d.rad)),pts[N]);linie(ctx,pts);
+    pfeil(ctx,pts[N],unit2(pts[N-1],pts[N]),art,s);pfeil(ctx,pts[0],unit2(pts[1],pts[0]),art,s);const t=unit2(pts[N/2-1],pts[N/2+1]);return text(ctx,pts[N/2],Math.atan2(t[1],t[0]),T,stil)}
+  if(d.typ==='koordinate'){const A=P(d.p),B=P(V.add(d.p,d.off||[0,0,0]));const right=B[0]>=A[0];const E=[B[0]+(right?1:-1)*s,B[1]];linie(ctx,[A,B,E]);ctx.beginPath();ctx.arc(A[0],A[1],2.5,0,7);ctx.fill();
+    const n=stil.stellen,zeilen=[`X ${zahl(d.p[0],n)}`,`Y ${zahl(d.p[1],n)}`,`Z ${zahl(d.p[2],n)}`];ctx.font=`600 ${s}px system-ui,sans-serif`;const w=Math.max(...zeilen.map(z=>ctx.measureText(z).width));
+    const x0=right?E[0]+4:E[0]-4-w;zeilen.forEach((z,i)=>{ctx.textBaseline='middle';ctx.strokeStyle='rgba(255,255,255,.95)';ctx.lineWidth=4;const y=E[1]+(i-1)*s*1.2;ctx.strokeText(z,x0,y);ctx.fillText(z,x0,y)});
+    return {x:x0+w/2,y:E[1],r:Math.max(w,s*3)/2+4}}
+  return null}
+export function geomLinear(d){const dir=d.typ==='ausgerichtet'?V.norm(V.sub(d.p2,d.p1)):V.norm(d.dir);let off=d.off||[0,0,0];off=V.sub(off,V.mul(dir,V.dot(off,dir)));
+  const l1=V.add(d.p1,off),l2=V.add(l1,V.mul(dir,V.dot(V.sub(d.p2,d.p1),dir)));return {dir,off,l1,l2,mid:V.mul(V.add(d.p1,d.p2),0.5)}}
+export function bogenPunkte(v,u1,u2,rr,N=32){const a=V.norm(u1),b=V.norm(u2);const om=Math.acos(Math.max(-1,Math.min(1,V.dot(a,b))));const out=[];
+  for(let i=0;i<=N;i++){const t=i/N;let w;if(om<1e-6)w=a;else{const s=Math.sin(om);w=V.add(V.mul(a,Math.sin((1-t)*om)/s),V.mul(b,Math.sin(t*om)/s))}out.push(V.add(v,V.mul(w,rr)))}return out}
+/** Ziehen: Bemaßung so versetzen, dass sie durch den Modellpunkt M geht. */
+export function ziehe(d,M){if(['ausgerichtet','horizontal','vertikal'].includes(d.typ)){const g=geomLinear(d);d.off=V.sub(M,d.p1);d.off=V.sub(d.off,V.mul(g.dir,V.dot(d.off,g.dir)))}
+  else if(d.typ==='winkel'){const r=V.len(V.sub(M,d.v));d.off=V.mul(V.norm(d.u1),Math.max(r,1e-3))}
+  else if(d.typ==='radius'||d.typ==='durchmesser'){const [e1,e2]=basis(d.n);const w=V.sub(M,d.c);d.ang=Math.atan2(V.dot(w,e2),V.dot(w,e1))}
+  else if(d.typ==='bogen'){const [e1,e2]=basis(d.n);const w=V.sub(M,d.c);const r=Math.hypot(V.dot(w,e1),V.dot(w,e2));d.offR=Math.max(r-d.rad,d.rad*0.05)}
+  else if(d.typ==='koordinate')d.off=V.sub(M,d.p)}
+/** Bogenwinkel a0..a1 eines Kreisbogens (Kreis c,n,r) aus Anfangs- und Endpunkt. */
+export function bogenWinkel(c,n,p0,p1,voll){const [e1,e2]=basis(n);const ang=p=>{const w=V.sub(p,c);return Math.atan2(V.dot(w,e2),V.dot(w,e1))};let a0=ang(p0),a1=ang(p1);
+  if(voll)return [a0,a0+2*Math.PI];while(a1<=a0)a1+=2*Math.PI;return [a0,a1]}

diff --git a/index.html b/index.html
@@ -17,13 +17,22 @@
 <div class="ahead">Fangen</div>
 <div class="snaps"><label><input type="checkbox" id="snapV" checked> <span class="sym sym-v"></span>Ecke</label><label><input type="checkbox" id="snapM" checked> <span class="sym sym-m"></span>Kantenmitte</label><label><input type="checkbox" id="snapC" checked> <span class="sym sym-c"></span>Kreismittelpunkt</label><label><input type="checkbox" id="snapE" checked> <span class="sym sym-e"></span>Kante</label><label><input type="checkbox" id="snapF" checked> <span class="sym sym-f"></span>Fläche</label><label><input type="checkbox" id="snapA"> <span class="sym sym-a"></span>Achse</label></div>
 <div class="row"><label for="prec">Genauigkeit</label> <select id="prec" title="Nachkommastellen"><option value="0">0 (1)</option><option value="1">1 (0,1)</option><option value="2">2 (0,01)</option><option value="3" selected>3 (0,001)</option><option value="4">4 (0,0001)</option></select> <span class="m">Nachkommastellen, alle Maße in mm</span></div>
-<p class="hint">Element anklicken (Rundung/Bogen: Radius und Bogenlänge sofort). Zweites Element anklicken: Abstand, Winkel, Lochabstand – wird als Bemaßung im 3D behalten. Strg/Umschalt + Klick: weitere Kanten für die Gesamtlänge. Leertaste setzt die Auswahl zurück.</p>
+<p class="hint">Element anklicken (Rundung/Bogen: Radius und Bogenlänge sofort). Zweites Element anklicken: Abstand, Winkel, Lochabstand – wird als Bemaßung im 3D behalten. Weitere Arten (Winkel, R, Ø, Bogenlänge, Koordinate) über „Bemaßen“. Maus: Mitte ziehen = drehen, Rechts oder Umschalt+Mitte ziehen = schwenken, Rad = Zoom zum Cursor. Strg/Umschalt + Klick: weitere Kanten für die Gesamtlänge. Leertaste setzt die Auswahl zurück.</p>
 <div id="selinfo" class="sel"></div>
 <div id="mresult" class="kv"></div>
 <div class="row"><button class="btn" id="keepDim">Als Bemaßung behalten</button> <button class="btn" id="copySel">Kopieren</button> <button class="btn" id="clearSel">Auswahl löschen</button></div>
 <div class="ahead">Bemaßungen <span id="dimcount" class="m"></span></div>
 <div id="dimlist"></div>
-<div class="row"><button class="btn" id="dimCopyAll">Alle kopieren</button> <button class="btn" id="dimClear">Alle löschen</button></div>
+<div class="row"><select id="dimtyp" title="Bemaßungsart für die aktuelle Auswahl"></select> <button class="btn" id="dimSet" title="Aktuelle Auswahl mit der gewählten Art bemaßen">Bemaßen</button></div>
+<div id="dimedit" hidden><div class="ahead">Bemaßung <span id="deNo"></span> bearbeiten <button class="btn" id="deClose">Fertig</button></div>
+<div class="row"><label>Art <select id="deTyp"></select></label></div>
+<div class="row"><label>Präfix <input id="dePre" size="6"></label> <label>Suffix <input id="deSuf" size="6"></label></div>
+<div class="row"><label>Text <input id="deText" size="14" placeholder="leer = Messwert"></label></div>
+<div class="row"><label>Toleranz <select id="deTol"><option value="keine">Keine</option><option value="symm">± symmetrisch</option><option value="abmass">Abmaße (+/−)</option><option value="grenz">Grenzmaß</option></select></label> <label>oben <input id="deO" size="5" value="0"></label> <label>unten <input id="deU" size="5" value="0"></label></div>
+<p class="hint">Maßtext in der Ansicht mit der linken Maustaste ziehen, um die Maßlinie zu versetzen.</p></div>
+<div class="row"><button class="btn" id="dimCopyAll">Alle kopieren</button> <button class="btn" id="dimClear">Alle löschen</button> <button class="btn" id="dimPng">Als PNG</button> <button class="btn" id="dimPdf">Als PDF</button></div>
+<div class="ahead">Maßstil</div>
+<div class="row"><label>Textgröße <input id="stGroesse" type="number" min="8" max="40" style="width:4em"> px</label> <label>Pfeil <select id="stPfeil"></select></label> <label>Stellen <input id="stStellen" type="number" min="0" max="4" style="width:3em"></label></div>
 <div class="ahead">Masse</div>
 <div class="row"><select id="mat" title="Werkstoff wählen"><option value="7.85">Stahl (7,85 g/cm³)</option><option value="7.90">Edelstahl (7,90 g/cm³)</option><option value="2.70">Aluminium (2,70 g/cm³)</option><option value="8.96">Kupfer (8,96 g/cm³)</option><option value="8.50">Messing (8,50 g/cm³)</option><option value="custom">Eigene Dichte</option></select>
 <input id="dens" type="number" step="0.01" min="0" value="7.85" title="Dichte in g/cm³"> <span class="m">g/cm³</span></div>
